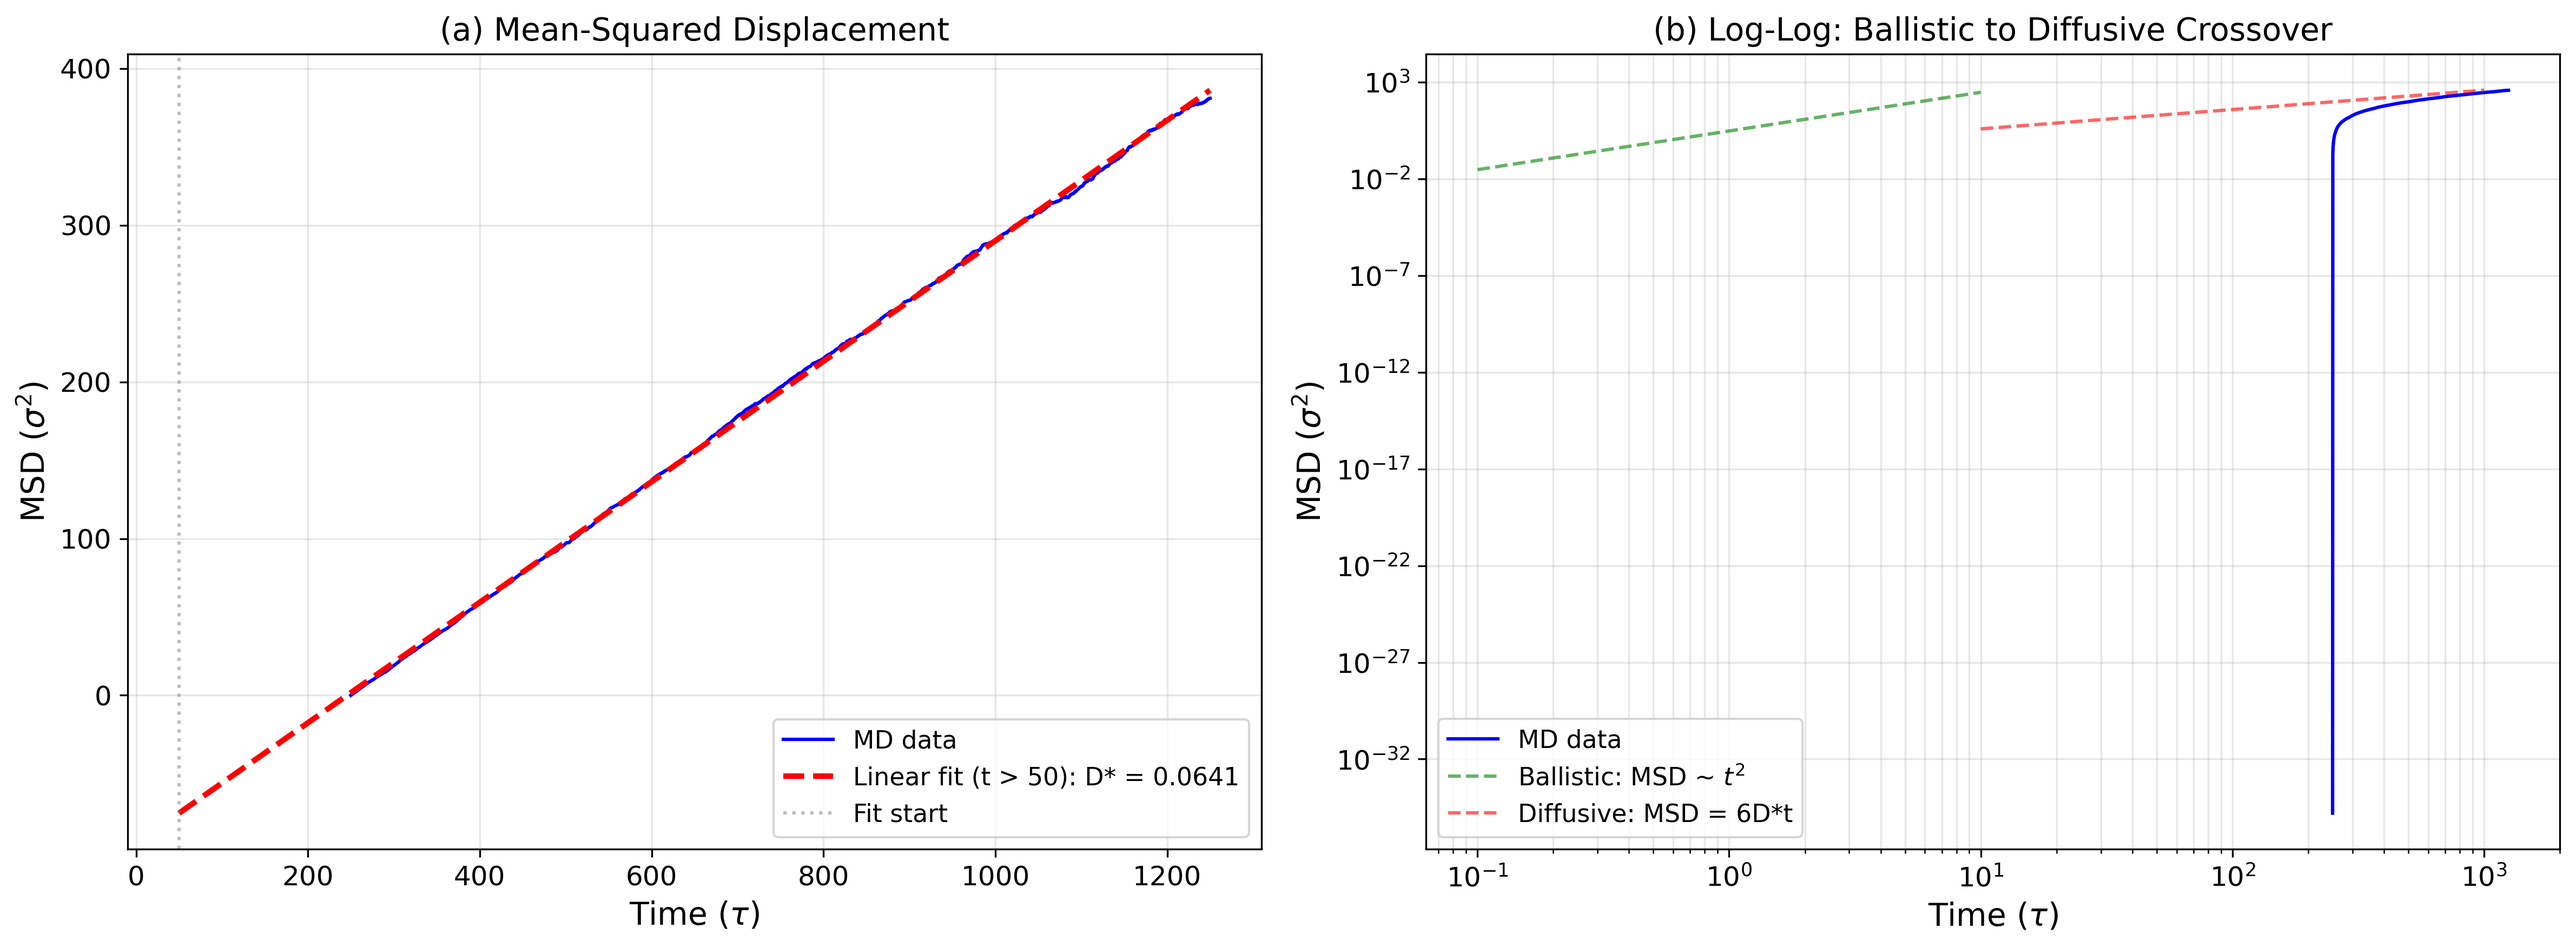
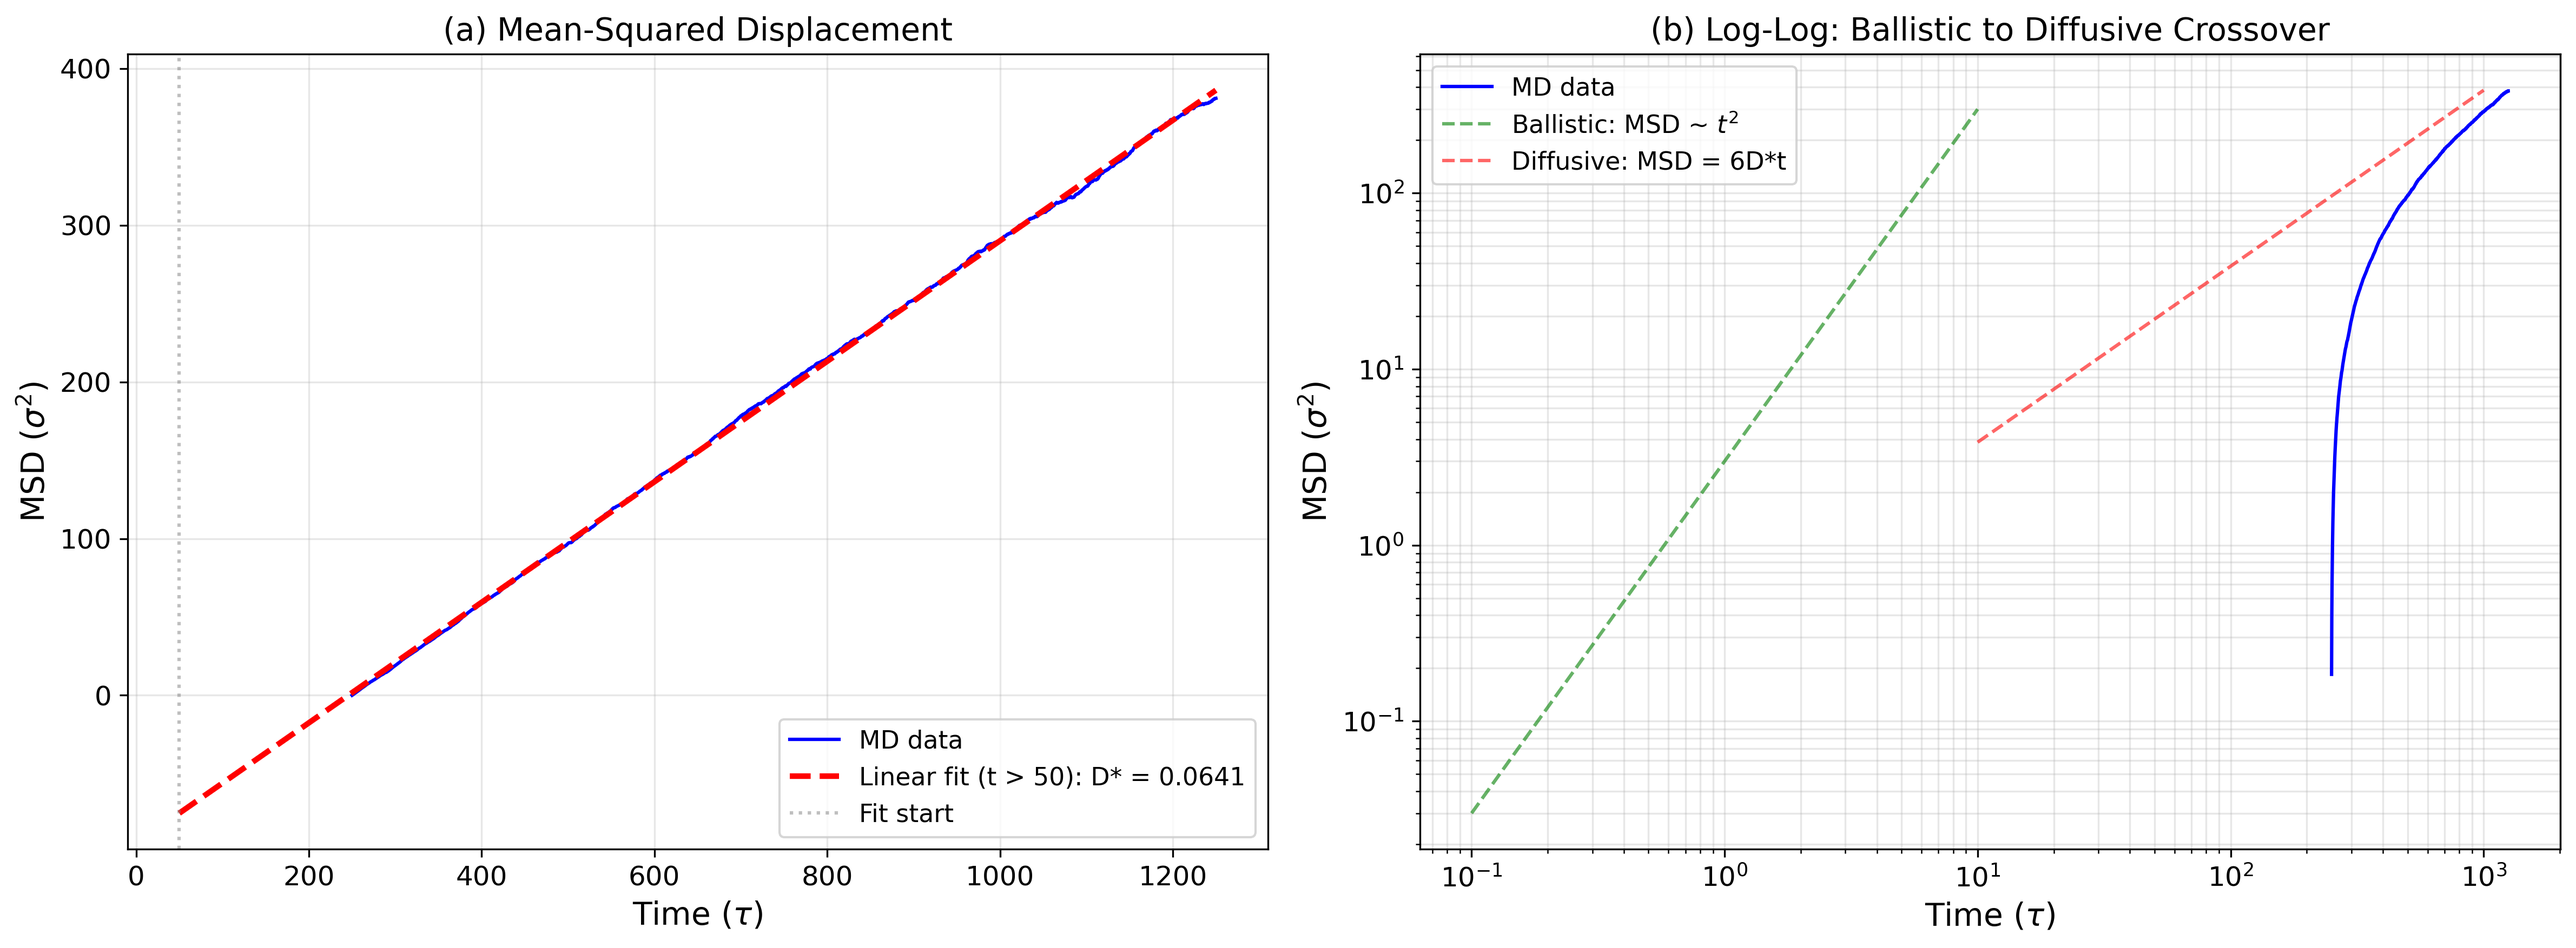
near-zero garbage points skipped from log plot

diff --git a/project-03-lj-diffusion/analysis/analyze_diffusion.py b/project-03-lj-diffusion/analysis/analyze_diffusion.py
@@ -72,7 +72,7 @@ ax.grid(True, alpha=0.3)
 # Right: log-log plot (shows ballistic -> diffusive crossover)
 ax = axes[1]
 # Skip first point if MSD is zero/tiny
-pos_mask = (time > 0) & (msd > 0)
+pos_mask = (time > 0.5) & (msd > 0.1)
 ax.loglog(time[pos_mask], msd[pos_mask], 'b-', linewidth=1.5, label='MD data')
 
 # Reference slopes

diff --git a/project-03-lj-diffusion/README.md b/project-03-lj-diffusion/README.md
@@ -1,0 +1,57 @@
+# Self-Diffusion Coefficient of a Lennard-Jones Fluid
+
+## Summary
+
+Computed the self-diffusion coefficient of a LJ fluid at T* = 1.0,
+rho* = 0.8 using the Einstein relation (MSD slope). Result:
+D* = 0.064 (published reference: D* = 0.06, deviation: 7%).
+
+## Method
+
+- **Software:** LAMMPS (serial)
+- **Potential:** LJ/cut, epsilon=1.0, sigma=1.0, cutoff=2.5
+- **System:** 2048 atoms, periodic boundaries
+- **Protocol:**
+  1. Energy minimization
+  2. NVT equilibration at T*=1.0 (50,000 steps, melts FCC into liquid)
+  3. NVE production (200,000 steps = 1000 tau)
+- **Critical decision:** NVE for production, not NVT. Thermostat
+  corrupts velocity autocorrelation and MSD, giving wrong D.
+
+## Key Result
+
+| Property | MD Result | Published Reference |
+|----------|-----------|-------------------|
+| D* (reduced units) | 0.064 | 0.06 (Meier 2004) |
+| Deviation | 7% | — |
+
+## Physics
+
+MSD grows linearly with time in the diffusive regime:
+MSD(t) = 6*D*t (3D). The slope of the linear fit for t > 50 tau
+gives D. At short times (t < 1 tau), motion is ballistic (MSD ~ t^2)
+because atoms haven't collided yet. The crossover from ballistic
+to diffusive is the emergence of macroscopic transport from
+microscopic collisions.
+
+## Files
+
+- `scripts/in.lj_diffusion` — Parameterized input (-var TEMP, -var DENS)
+- `analysis/analyze_diffusion.py` — MSD analysis + Einstein relation
+- `figures/diffusion_lj.png` — MSD + log-log crossover figure
+- `outputs/msd_T1.0_rho0.8.dat` — Raw MSD data
+
+## How to Reproduce
+
+```bash
+cd scripts
+lmp -in in.lj_diffusion -var TEMP 1.0 -var DENS 0.8 > ../outputs/log.txt 2>&1
+cd ../analysis
+python3 analyze_diffusion.py
+```
+
+## References
+
+- Meier et al. (2004) J. Chem. Phys. 121, 3671 (reference D* values)
+- Allen & Tildesley (2017) Computer Simulation of Liquids, Ch. 2
+- Thompson et al. (2022) Comput. Phys. Commun. 271, 108171 (LAMMPS)
